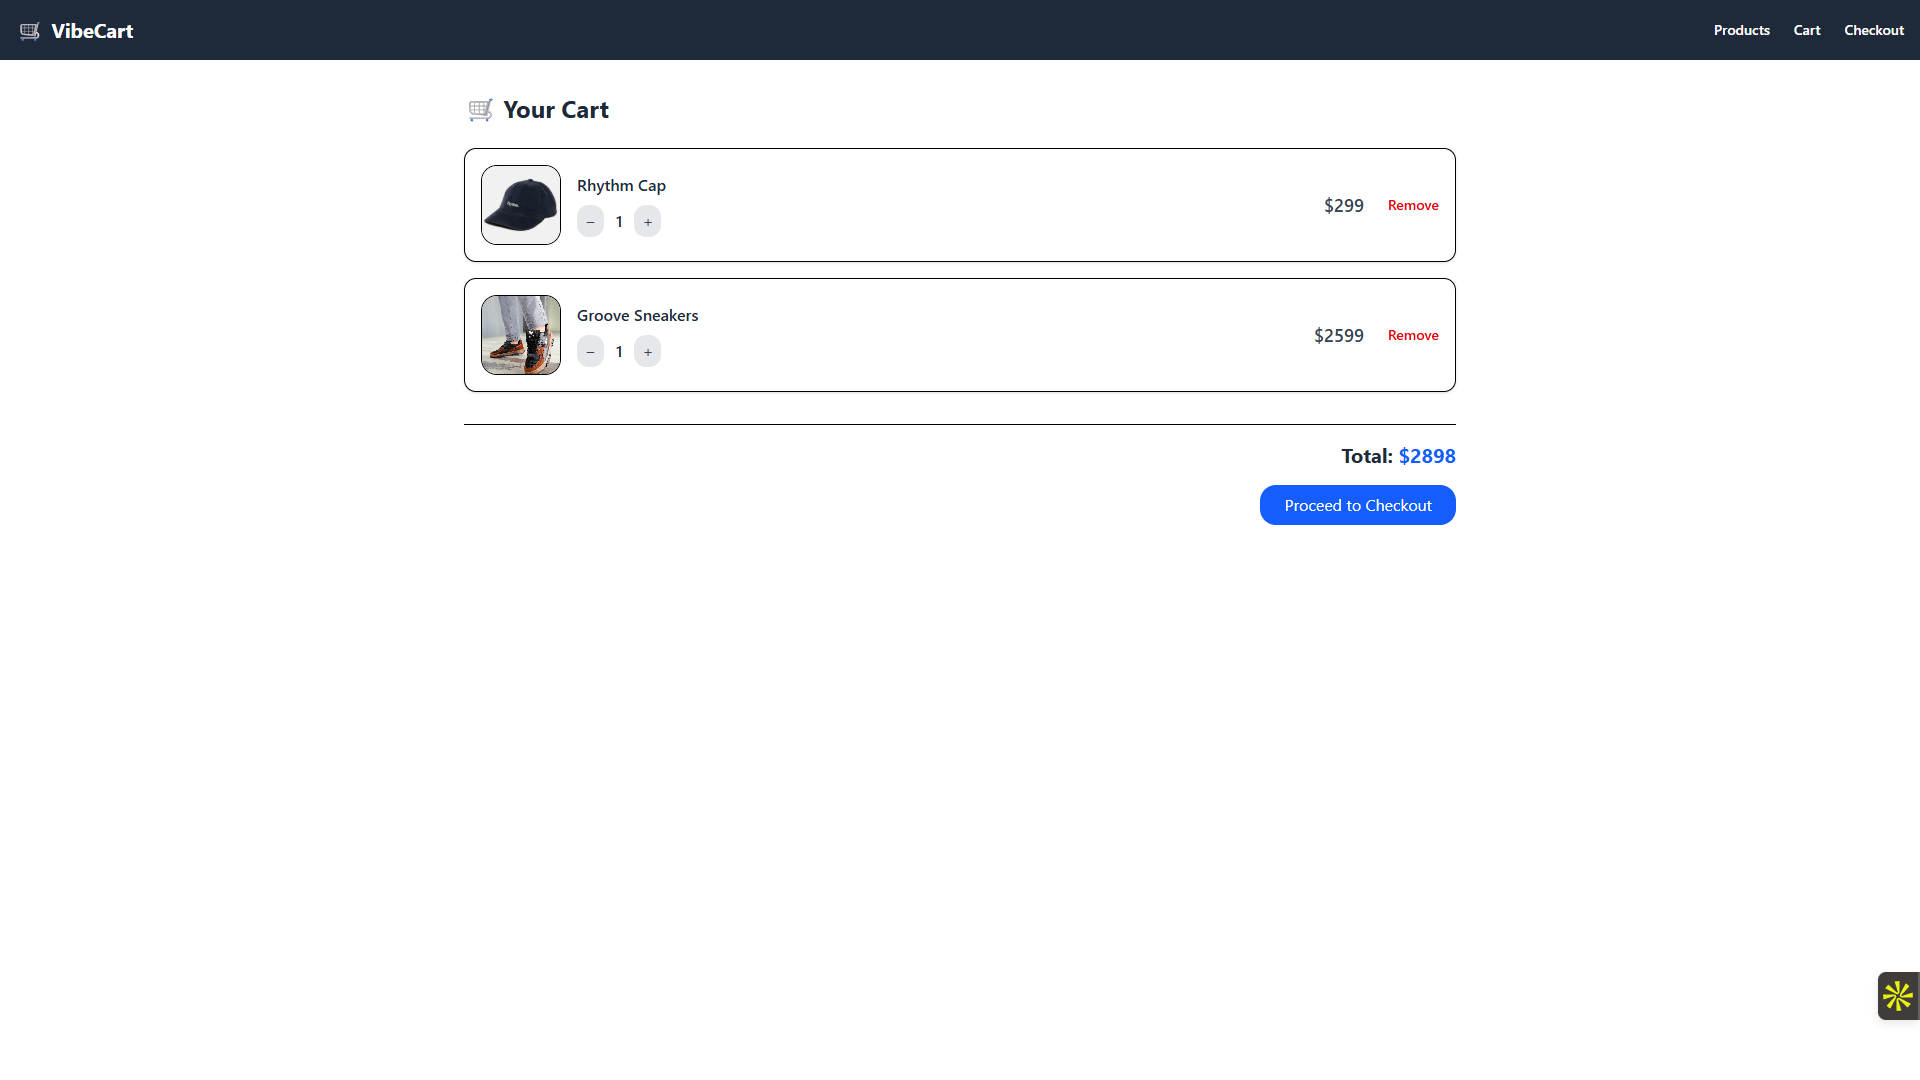
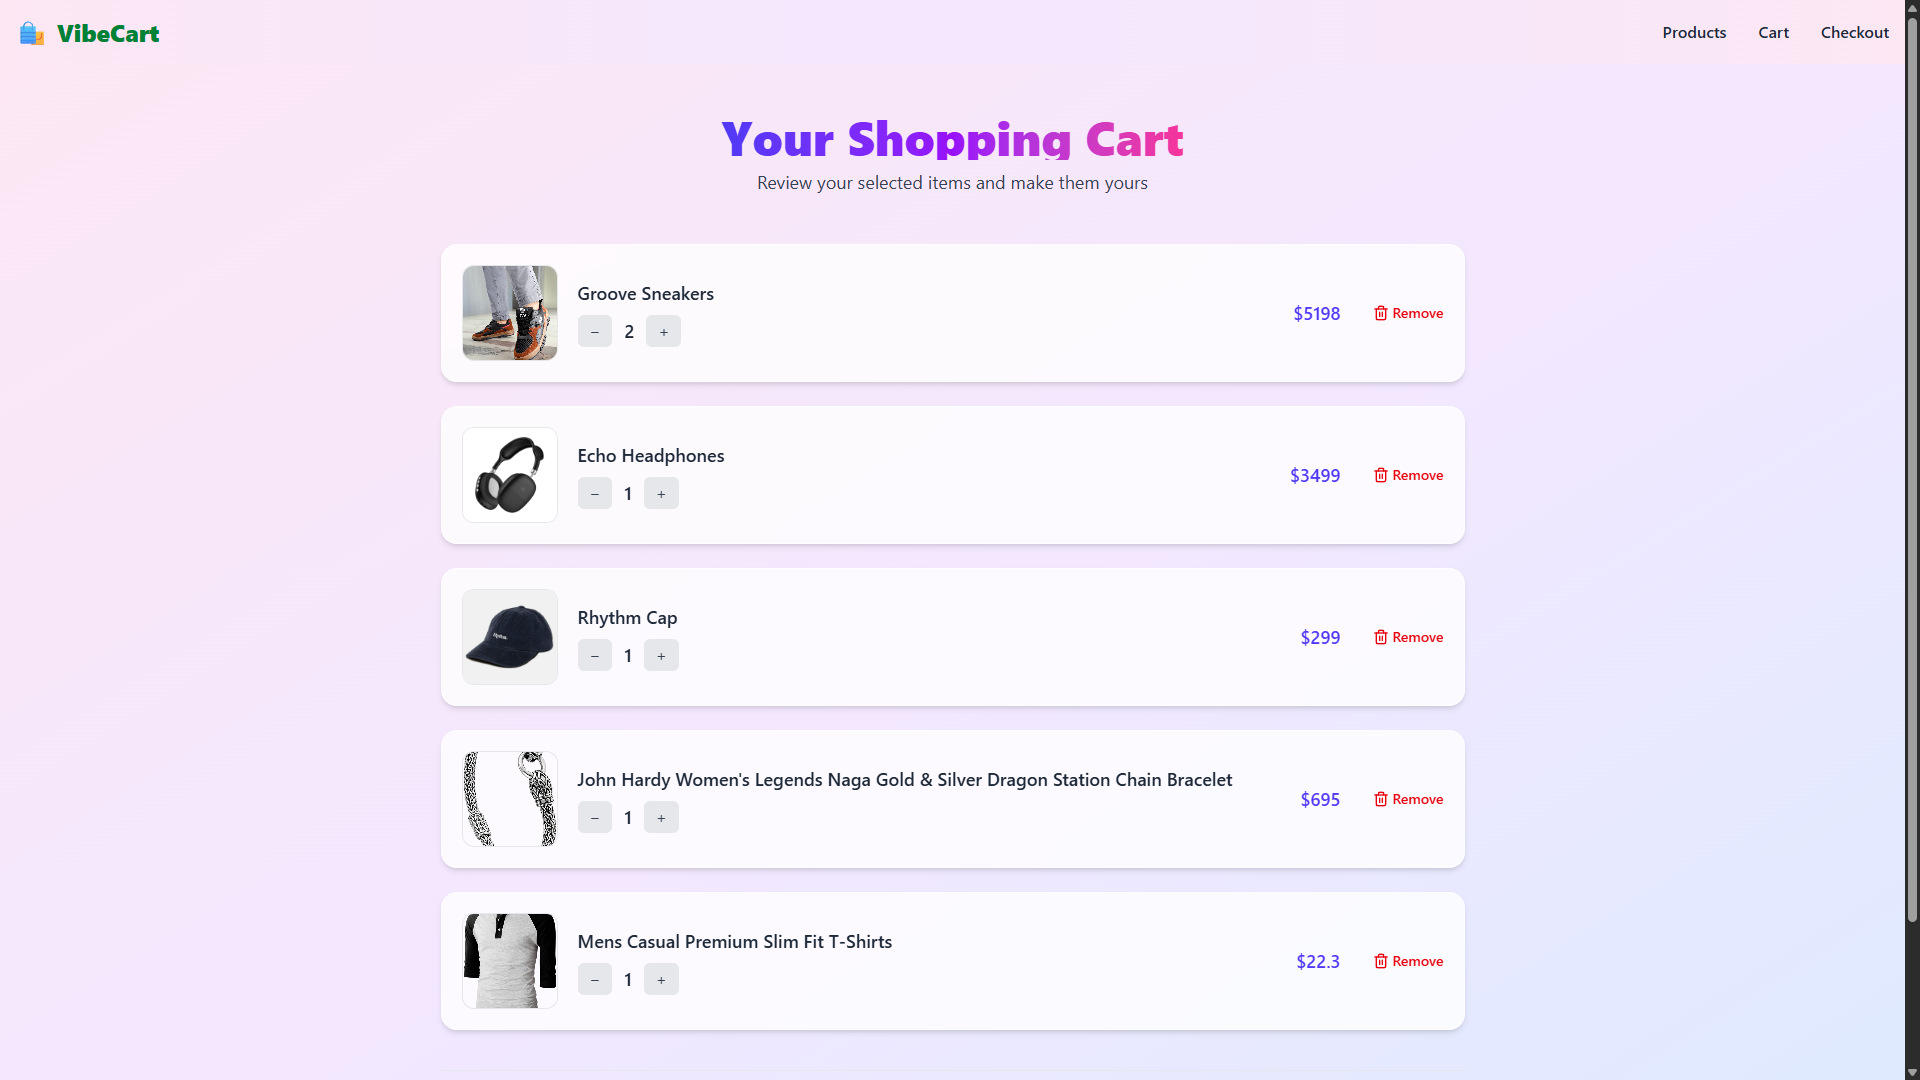
update: updated the UI and some design for cart page and also updated the screenshot

diff --git a/frontend/src/components/Cart.jsx b/frontend/src/components/Cart.jsx
@@ -1,6 +1,7 @@
 import { useEffect, useState } from "react";
 import { useNavigate } from "react-router-dom";
 import { getCart, removeFromCart, updateCartItem } from "../api";
+import { Trash2, ShoppingCart } from "lucide-react";
 
 const Cart = () => {
   const [cartData, setCartData] = useState({ items: [], total: 0 });
@@ -31,88 +32,102 @@ const Cart = () => {
   };
 
   return (
-    <div className="max-w-5xl mx-auto px-4 py-8">
-      <h2 className="text-2xl font-bold mb-6 text-gray-800">🛒 Your Cart</h2>
+    <div className="min-h-screen bg-gradient-to-br from-pink-100 via-purple-100 to-blue-100 flex flex-col items-center px-6 py-12">
+      <div className="text-center mb-12">
+        <h2 className="text-5xl font-extrabold text-transparent bg-gradient-to-r from-indigo-600 via-purple-600 to-pink-500 bg-clip-text">
+          Your Shopping Cart
+        </h2>
+        <p className="text-gray-700 text-lg mt-2">
+          Review your selected items and make them yours
+        </p>
+      </div>
 
       {cartData.items.length === 0 ? (
-        <div className="text-center text-gray-500 py-10 border rounded-lg shadow-sm">
-          <p className="text-lg">Your cart is empty.</p>
-          <p className="text-sm text-gray-400 mt-1">
+        <div className="flex flex-col items-center justify-center bg-white/80 backdrop-blur-lg rounded-2xl shadow-xl border border-white/60 p-10 w-full max-w-3xl">
+          <ShoppingCart className="w-16 h-16 text-gray-400 mb-4" />
+          <p className="text-lg text-gray-700 font-semibold">
+            Your cart is empty.
+          </p>
+          <p className="text-gray-500 text-sm mt-2">
             Add some products to see them here.
           </p>
         </div>
       ) : (
-        <div className="space-y-4">
-          {cartData.items.map((item) => (
-            <div
-              key={item._id}
-              className="flex items-center justify-between bg-white rounded-xl shadow-sm border p-4 hover:shadow-md transition-all"
-            >
-              <div className="flex items-center space-x-4">
-                {item.product?.image ? (
-                  <img
-                    src={item.product.image}
-                    alt={item.product.name}
-                    className="w-20 h-20 object-cover rounded-lg border"
-                  />
-                ) : (
-                  <div className="w-20 h-20 bg-gray-100 rounded-lg flex items-center justify-center text-gray-400">
-                    N/A
-                  </div>
-                )}
+        <>
+          <div className="w-full max-w-5xl space-y-6">
+            {cartData.items.map((item) => (
+              <div
+                key={item._id}
+                className="flex flex-col sm:flex-row items-center justify-between bg-white/80 backdrop-blur-lg border border-white/60 rounded-2xl shadow-md hover:shadow-2xl hover:-translate-y-1 transition-all duration-300 p-5"
+              >
+                <div className="flex items-center space-x-5 w-full sm:w-auto">
+                  {item.product?.image ? (
+                    <img
+                      src={item.product.image}
+                      alt={item.product.name}
+                      className="w-24 h-24 object-cover rounded-xl border border-gray-200"
+                    />
+                  ) : (
+                    <div className="w-24 h-24 bg-gray-100 rounded-xl flex items-center justify-center text-gray-400">
+                      N/A
+                    </div>
+                  )}
 
-                <div>
-                  <h3 className="font-semibold text-gray-800">
-                    {item.product ? item.product.name : "Product unavailable"}
-                  </h3>
-                  <div className="flex items-center space-x-3 mt-2">
-                    <button
-                      onClick={() => handleQtyChange(item._id, item.qty - 1)}
-                      className="bg-gray-200 text-gray-700 rounded-md px-2 py-1 hover:bg-gray-300"
-                    >
-                      −
-                    </button>
-                    <span className="text-gray-800 font-medium">
-                      {item.qty}
-                    </span>
-                    <button
-                      onClick={() => handleQtyChange(item._id, item.qty + 1)}
-                      className="bg-gray-200 text-gray-700 rounded-md px-2 py-1 hover:bg-gray-300"
-                    >
-                      +
-                    </button>
+                  <div>
+                    <h3 className="font-semibold text-gray-800 text-lg">
+                      {item.product ? item.product.name : "Product unavailable"}
+                    </h3>
+                    <div className="flex items-center space-x-3 mt-2">
+                      <button
+                        onClick={() => handleQtyChange(item._id, item.qty - 1)}
+                        className="bg-gray-200 text-gray-700 rounded-md px-3 py-1 hover:bg-gray-300 transition"
+                      >
+                        −
+                      </button>
+                      <span className="text-gray-800 font-medium text-lg">
+                        {item.qty}
+                      </span>
+                      <button
+                        onClick={() => handleQtyChange(item._id, item.qty + 1)}
+                        className="bg-gray-200 text-gray-700 rounded-md px-3 py-1 hover:bg-gray-300 transition"
+                      >
+                        +
+                      </button>
+                    </div>
                   </div>
                 </div>
-              </div>
 
-              <div className="flex items-center space-x-6">
-                <p className="text-lg font-semibold text-gray-700">
-                  {item.product ? `$${item.product.price * item.qty}` : "-"}
-                </p>
-                <button
-                  onClick={() => handleRemove(item._id)}
-                  className="text-red-600 hover:text-red-700 text-sm font-medium"
-                >
-                  Remove
-                </button>
+                <div className="flex items-center justify-between w-full sm:w-auto sm:space-x-8 mt-4 sm:mt-0">
+                  <p className="text-lg font-semibold text-indigo-600">
+                    {item.product ? `$${item.product.price * item.qty}` : "-"}
+                  </p>
+                  <button
+                    onClick={() => handleRemove(item._id)}
+                    className="flex items-center gap-1 text-red-600 hover:text-red-700 font-medium text-sm"
+                  >
+                    <Trash2 className="w-4 h-4" />
+                    Remove
+                  </button>
+                </div>
               </div>
-            </div>
-          ))}
-        </div>
-      )}
+            ))}
+          </div>
 
-      {cartData.items.length > 0 && (
-        <div className="mt-8 text-right border-t pt-4">
-          <h3 className="text-xl font-bold text-gray-800">
-            Total: <span className="text-blue-600">${cartData.total}</span>
-          </h3>
-          <button
-            onClick={handleCheckout}
-            className="mt-4 bg-blue-600 text-white px-6 py-2 rounded-lg hover:bg-blue-700 transition"
-          >
-            Proceed to Checkout
-          </button>
-        </div>
+          <div className="mt-10 w-full max-w-5xl text-right border-t border-gray-200 pt-6">
+            <h3 className="text-2xl font-bold text-gray-800">
+              Total:{" "}
+              <span className="text-transparent bg-clip-text bg-gradient-to-r from-blue-600 to-pink-500">
+                ${cartData.total}
+              </span>
+            </h3>
+            <button
+              onClick={handleCheckout}
+              className="mt-6 bg-gradient-to-r from-pink-500 via-purple-500 to-indigo-500 hover:from-pink-600 hover:to-indigo-600 text-white font-semibold px-8 py-3 rounded-xl shadow-lg hover:shadow-xl transition-all duration-200 active:scale-95"
+            >
+              Proceed to Checkout
+            </button>
+          </div>
+        </>
       )}
     </div>
   );
